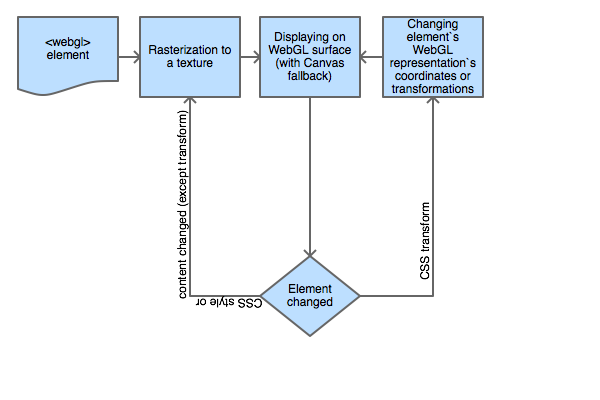
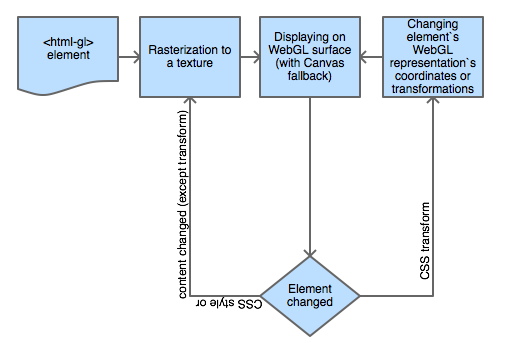
Added filters with fish demo, just for fun

Changed region(s): [[0.0, 0.0286, 0.9538, 0.9714]]

diff --git a/README.md b/README.md
@@ -48,7 +48,7 @@ Demos
 
 How to use?
 -----------
-Include HTML GL into project. Use tag name ```<html-gl>``` or jQuery plugin ```$(myElement).htmlgl()``` for elements you are going to animate. These elements will be rendered in WebGL and their CSS Transform properties will be mapped to WebGL representation transformations. So DOM node itself will not be animated or displayed in order to avoid resources consuming.
+Include HTMLGL.js into project. Use tag name ```<html-gl>``` or jQuery plugin ```$(myElement).htmlgl()``` for elements you are going to animate. These elements will be rendered in WebGL and their CSS Transform properties will be mapped to WebGL representation transformations. So DOM node itself will not be animated or displayed in order to avoid resources consuming.
 HTML GL is framework agnostic and is easy to inject into existing project which needs performance tweaking.
 
 License
